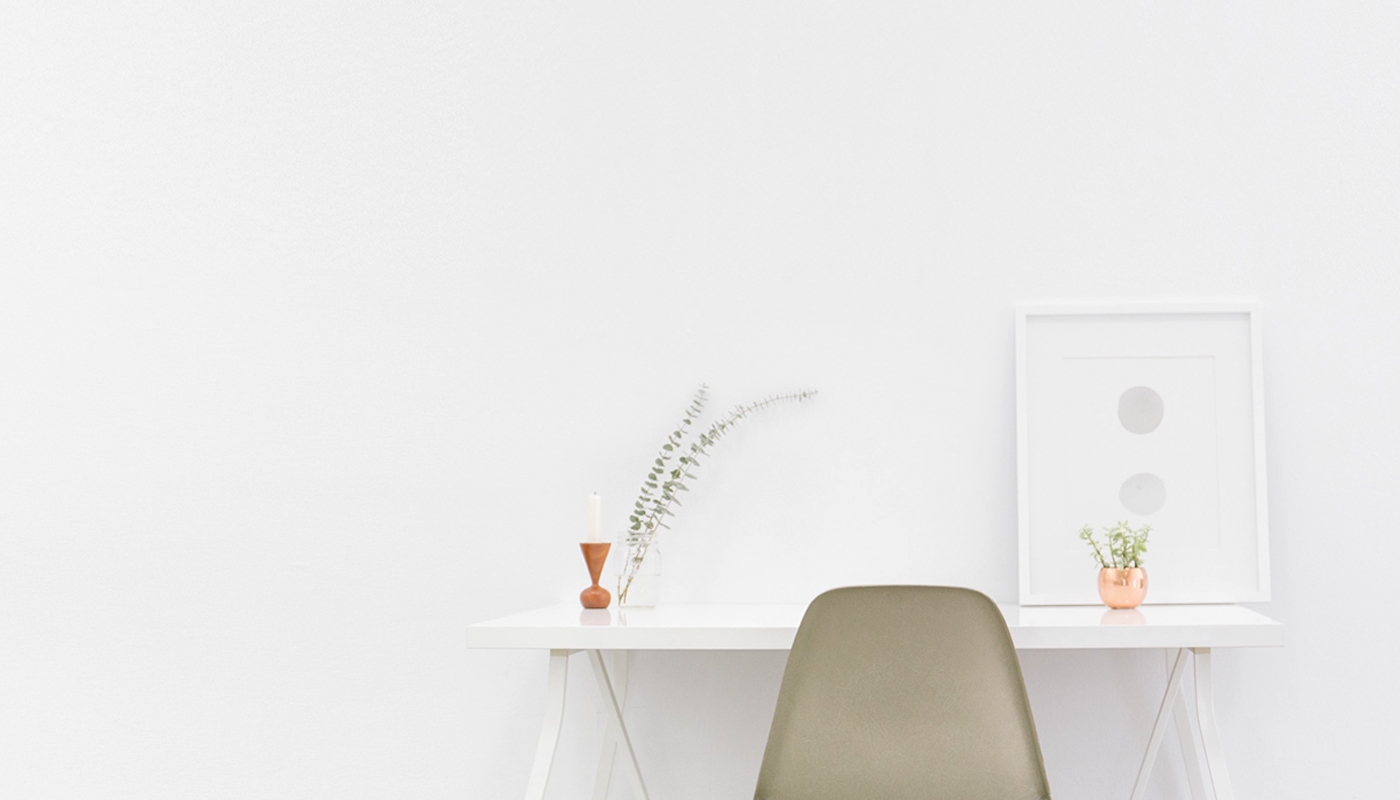
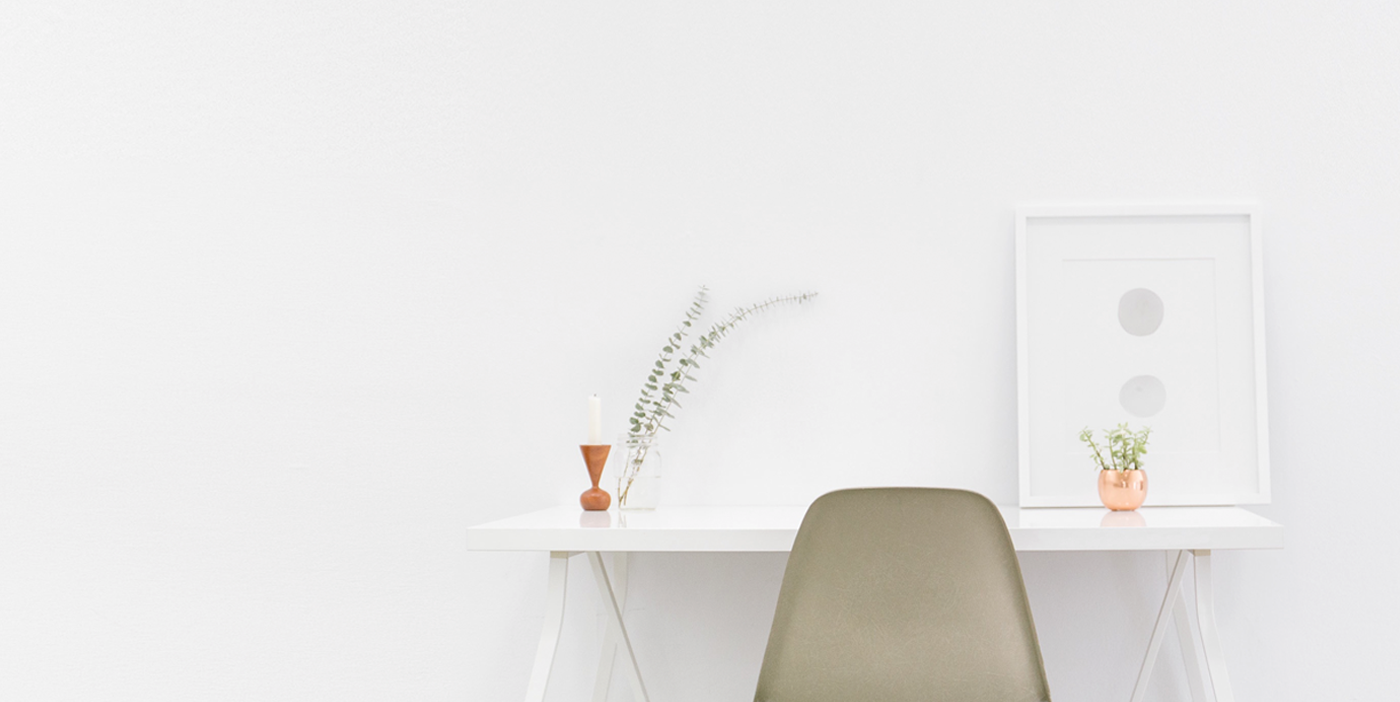
adjusted hero image styling

Changed region(s): [[0.3686, 0.4188, 0.8907, 0.9274]]

diff --git a/index.html b/index.html
@@ -7,12 +7,12 @@
         <title> Hannah McMahon | Developer</title>
         <link rel="stylesheet" href="css/normalize.css">
         <link rel="stylesheet" href="css/main.css">
-        <link href='https://fonts.googleapis.com/css?family=Source+Sans+Pro:400,700' rel='stylesheet' type='text/css'>
+        <link href="https://fonts.googleapis.com/css?family=Source+Sans+Pro:200,300,400" rel="stylesheet">
         <link href='https://fonts.googleapis.com/css?family=Lora:400,700' rel='stylesheet' type='text/css'>
     </head>
     <body>
       <header>
-        <nav>
+        <nav class="fixed">
           <div class="logo">
             <h1> Hannah McMahon </h1>
           </div>
@@ -30,12 +30,12 @@
             </div>
           </nav>
       </header>
-      <!-- <div class="full-width"> -->
-        <!-- this is the giant sentence -->
-          <!-- <h2><span>Hi,</span> I'm a developer that loves clean &amp; elegant code.</h2>
-        </div> -->
       <!-- main -->
       <main>
+        <div class="hero-wrapper">
+          <div class="hero-image"><img src="img/hero.png" alt="modern desk setting"/></div>
+          <div class="homepage-header-text">Hi! I'm a developer who loves clean &amp; elegant code.</div>
+        </div>
         <section id="about">
           <div class="full-width">
             <h2> A little bit about me. </h2>
@@ -89,5 +89,5 @@
   </body>
 
   <script src="js/main.js"></script>
-  
+
 </html>

diff --git a/css/main.css b/css/main.css
@@ -38,19 +38,6 @@ body {
 
 
 /********** HEADER **********/
-/* header {
-  background: url(../img/hero.png);
-  background-size: cover;
-  height: 800px;
-  padding-top: 10px;
-} */
-
-/* header h1 {
-  color: #BBC085;
-  font-family: 'Lora', serif;
-  font-size: 30px;
-  padding: 40px 0;
-} */
 
 nav {
   display: flex;
@@ -65,6 +52,7 @@ nav {
   text-transform: uppercase;
   letter-spacing: 2px;
   font-size: 16px;
+  font-weight: 300;
 }
 
 .nav-links {
@@ -97,6 +85,31 @@ nav {
   background-color: #9B9B9B;
   margin: 5px;
   transition: all 0.3s ease;
+}
+
+.hero-wrapper {
+  position: relative;
+  text-align: center;
+}
+
+.hero-img {
+  width: 100%;
+  object-fit: cover;
+  height: 400px;
+}
+
+.homepage-header-text {
+  text-align: center;
+  font-size: 56px;
+  line-height: 68px;
+  text-transform: uppercase;
+  color: #BBC085;
+  font-weight: 300;
+  position: absolute;
+  top: 40%;
+  left: 50%;
+  transform: translate(-50%, -50%);
+  width: 70%;
 }
 
 header h2 {
